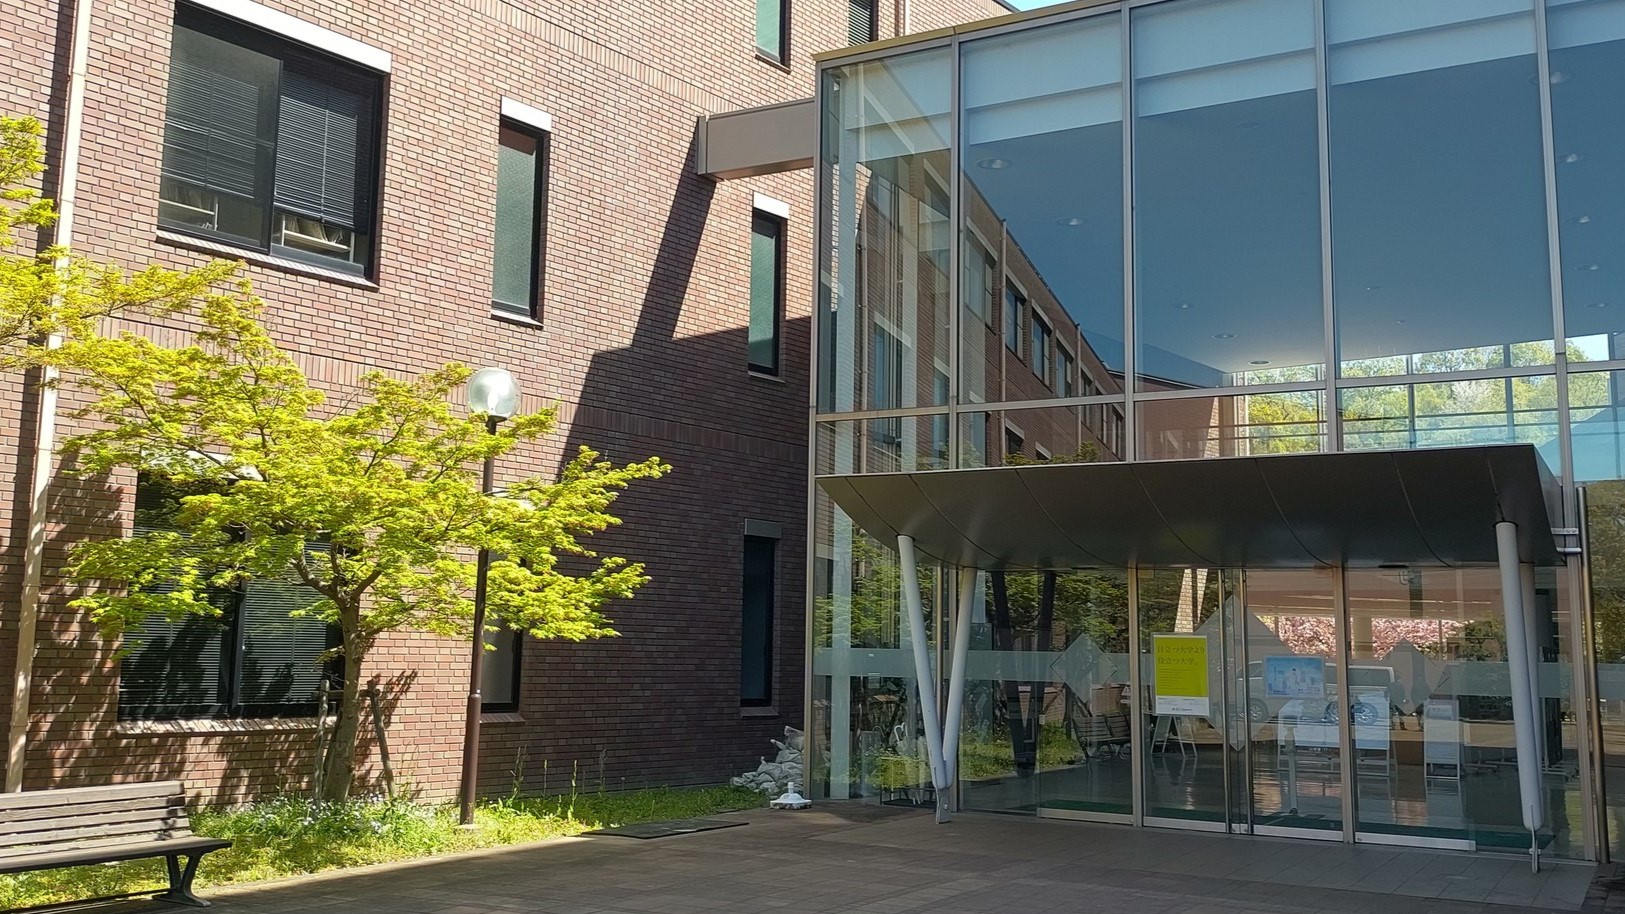
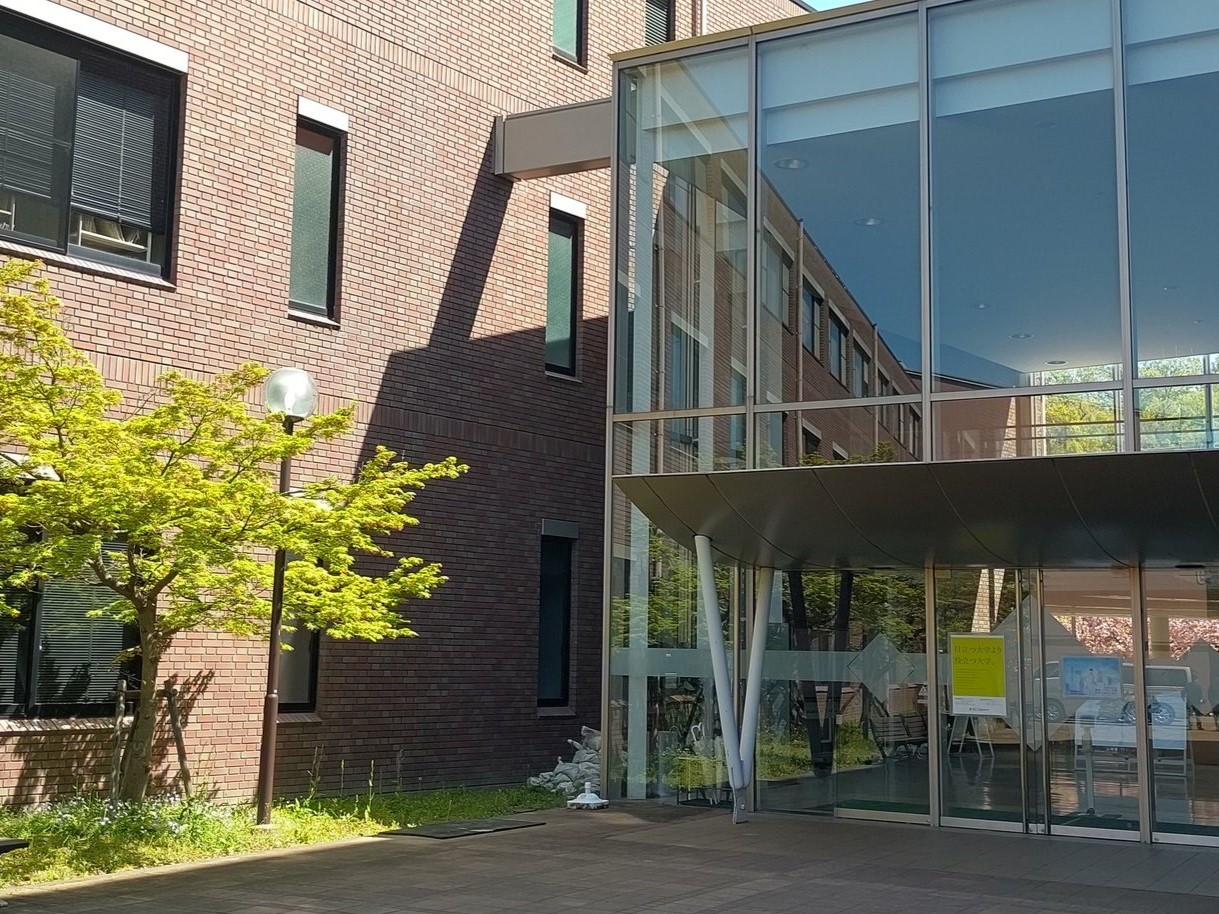
fix: 画像サイズとレスポンシブ時の配列

diff --git a/static/styles/scss/main.scss b/static/styles/scss/main.scss
@@ -113,7 +113,7 @@ main {
         & img {
             display: block;
             width: $media-content-width;
-            height: calc($media-content-width * 0.6);
+            height: calc($media-content-width * 0.75);
         }
     }
 
@@ -124,7 +124,7 @@ main {
 
 .members-container {
     margin: 8px;
-    padding-left: 32px;
+    padding: 32px;
 
     border: 1px dashed var.$color--accent;
 }
@@ -235,9 +235,17 @@ main {
     }
     
     .media-container {
-        flex-direction: column-reverse;
+        flex-direction: column;
+
         &:nth-child(odd) {
-            flex-direction: column-reverse;
+            flex-direction: column;
+        }
+
+        &__image {
+            & img {
+                width: 100vw;
+                height: calc(100vw * 0.75);
+            }
         }
     }
 }

diff --git a/static/styles/css/main.css b/static/styles/css/main.css
@@ -91,7 +91,7 @@ main {
 .media-container__image img {
   display: block;
   width: 480px;
-  height: 288px;
+  height: 360px;
 }
 .media-container:nth-child(odd) {
   flex-direction: row-reverse;
@@ -99,7 +99,7 @@ main {
 
 .members-container {
   margin: 8px;
-  padding-left: 32px;
+  padding: 32px;
   border: 1px dashed #ffcc5f;
 }
 
@@ -179,9 +179,13 @@ main {
     grid-gap: 1.5em 1em;
   }
   .media-container {
-    flex-direction: column-reverse;
+    flex-direction: column;
   }
   .media-container:nth-child(odd) {
-    flex-direction: column-reverse;
+    flex-direction: column;
+  }
+  .media-container__image img {
+    width: 100vw;
+    height: 75vw;
   }
 }
